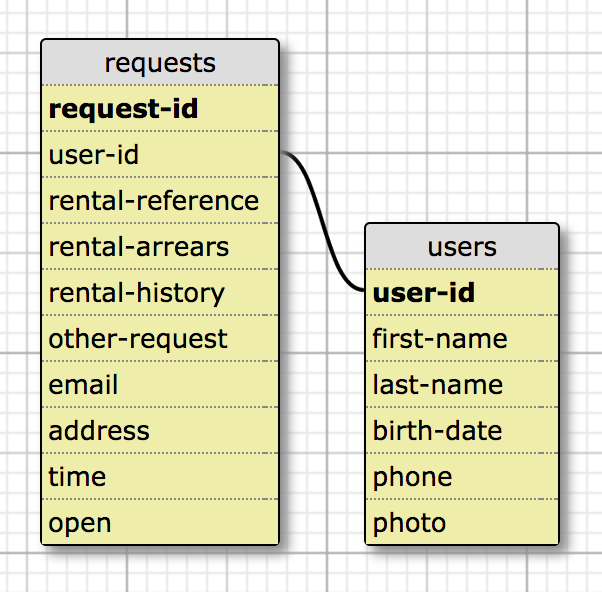
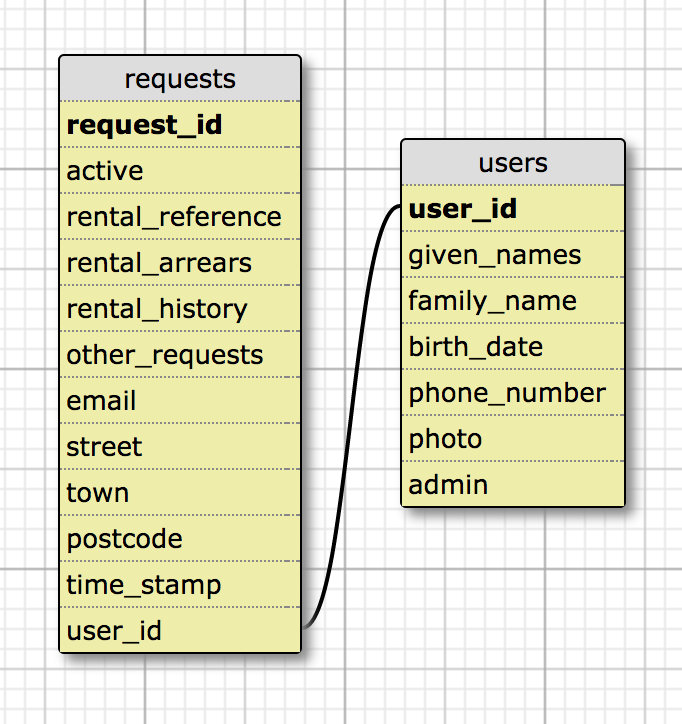
Add admin user stories, update database schema, minor edits

diff --git a/README.md b/README.md
@@ -1,36 +1,20 @@
 # Centrepoint Alumni help
 
-An app to allow former Centrepoint residents access their Centrepoint address history and information that they may require for their new tenancy agreements.
+An app to allow former Centrepoint residents request their Centrepoint housing information, and to allow administrators to view and manage requests.
 
-## Installation instructions
-
-- Clone this repo and `cd` into it
-- Install Postgres ([see here for instructions](https://github.com/dwyl/learn-postgresql))
-- Enter Postgres command line tool (`psql postgres` on Mac)
-- Create database by typing `CREATE DATABASE exresident_requests;`
-- Ask us for the database password
-- Add user 'centrepoint' and assign as the owner of the database:  
-  `CREATE USER centrepoint WITH SUPERUSER PASSWORD 'password-here';`  
-  `ALTER DATABASE exresident_requests OWNER TO centrepoint;`
-- Create a `config.env` file with the following two lines:  
-  `export DB_URL = postgres://centrepoint:password-here@localhost:5432/exresident_requests`
-  `export DB_MAX_CONNECTIONS = 2`   
-- Run `npm install` to install all dependencies
-- Run `npm run build` to build the database
-- Run `npm start` to start the server
-- Navigate to `http://localhost:9443/` in your browser
-
-#### In order to set up an HTTPS server
-- generate a key file for your certificate  ($ openssl genrsa -out key.pem 2048)
-- generate an intermediate file (csr)  ($ openssl req -new -key key.pem -out csr.pem)
-- generate a certificate file, using the key and csr ($ openssl x509 -req -days 9999 -in csr.pem -signkey key.pem -out cert.pem)
-- remove the intermediate csr file
-
-## User stories
+## User stories: ex-resident
 
 **As a** former resident of Centrepoint  
 **I would like** to access Centrepoint alumni network  
 **so that** I can request my former address with a verified ID    
+
+**As a** former resident of Centrepoint  
+**I would like** the app to look similar to The Point  
+**so that** I know that they are both part of the Centrepoint ex-resident network  
+
+**As a** former resident of Centrepoint  
+**I would like** the app to work on both mobile and desktop  
+**so that** access it regardless of whichever platform I have access to  
 
 **As a** former resident of Centrepoint  
 **I would like** to know what type of information I can request  
@@ -57,45 +41,72 @@ An app to allow former Centrepoint residents access their Centrepoint address hi
 **so that** receive the requested information quickly and reliably  
 
 **As a** former resident of Centrepoint  
+**I would like** the app to look simple, and the form data to be easy to input  
+**so that** be confident that I have put in all the data correctly
+
+**As a** former resident of Centrepoint  
 **I would like** to know long it would take for Centrepoint to contact me  
 **so that** I know when I will get my information (and that they will get in touch by phone if there are any questions)  
 
-## Project plan
+**As a** former resident of Centrepoint  
+**I would like** to stay logged in until I log out  
+**so that** I am authenticated with the app when (and only when) I'm using it
 
-### Wednesday
+## User stories: admin
 
-- Design app flow & storyboards
-- Decide on fonts & colours
-- Create README
-- Set up landing & confirmation pages
-- Set up basic back-end
-- Set up Yoti authentication
+**As a** Centrepoint admin  
+**I would like** to access the ex-resident app dashboard  
+**so that** I can view all requests for housing data from ex-residents
 
-### Thursday
+**As a** Centrepoint admin  
+**I would like** to log in to Yoti quickly and easily  
+**so that** I am authenticated with Centrepoint
 
-- Set up housing data page
-- Set up thank you page
-- Styling and animations
+**As a** Centrepoint admin  
+**I would like** to make sure that only administrators can view the dashboard  
+**so that** ex-residents data is not revealed to external visitors
 
-### Friday
+**As a** Centrepoint admin  
+**I would like** to see a list of all data requests from ex-residents  
+**so that** I know what requests have been made and need my attention
 
-- Set up back-end for remaining pages
-- Styling and animations
-- Prepare for demo & presentation
+**As a** Centrepoint admin  
+**I would like** to see which data requests from ex-residents are open and which closed  
+**so that** I know which requests to focus on
+
+**As a** Centrepoint admin  
+**I would like** to see when each of the requests was made  
+**so that** I know which requests to give priority to
+
+**As a** Centrepoint admin  
+**I would like** to be able to change a request status from open to closed once I have processed it  
+**so that** I know that it doesn't need my attention any more
+
+**As a** Centrepoint admin  
+**I would like** to be able to filter requests based on whether they are open or closed  
+**so that** I can see a list of all requests I am interested in more clearly
+
+**As a** Centrepoint admin  
+**I would like** to stay logged in until I log out  
+**so that** I am authenticated with the dashboard when (and only when) I'm using it
+
+**As a** Centrepoint admin  
+**I would like** to be able to add admin privileges to colleagues at Centrepoint  
+**so that** they can view and work on requests from the dashboard as well
+
+## Wireframes: ex-resident app
+
+<img src="./wireframes/wireframes-12.JPG" height="400"/>
+<img src="./wireframes/wireframes-34.JPG" height="400"/>
+
+## Wireframes: admin dashboard
+
+<img src="./wireframes/Dashboard.png" width="500"/>
+<img src="./wireframes/Dashboard-open-req.png" width="500"/>
 
 ## App flow
 
 <img src="./wireframes/app-flow.png" width="450"/>
-
-## Ex-resident app wireframes
-
-<img src="./wireframes/wireframes-12.JPG" width="400"/>
-<img src="./wireframes/wireframes-34.JPG" width="300"/>
-
-## Admin dashboard wireframes
-
-<img src="./wireframes/Dashboard.png" width="500"/>
-<img src="./wireframes/Dashboard-open-req.png" width="500"/>
 
 ## Database schema
 
@@ -120,11 +131,39 @@ Fonts and colours were taken to match those at https://centrepoint.org.uk
 
 ## Technical decisions
 
-### Platform
-- Mobile-first web app to ensure wide access
+### Platform: ex-resident app
+- Mobile-first web app
 - Should be able to work well on older smartphones with smaller screens
 
-### Tech stack - currently implemented
+### Platform: admin dashboard
+- Desktop web app
+- Office use friendly
+
+### Tech stack
 - Front-end: HTML, CSS, Materialize, JavaScript (jQuery)
-- Back-end: Node.js, Hapi.js
+- Back-end: Node.js, Hapi.js, Handlebars, Postgres
 - Authentication: Yoti
+
+## Installation instructions
+
+- Clone this repo and `cd` into it
+- Install Postgres ([see here for instructions](https://github.com/dwyl/learn-postgresql))
+- Enter Postgres command line tool (`psql postgres` on Mac)
+- Create database by typing `CREATE DATABASE exresident_requests;`
+- Ask us for the database password
+- Add user 'centrepoint' and assign as the owner of the database:  
+  `CREATE USER centrepoint WITH SUPERUSER PASSWORD 'password-here';`  
+  `ALTER DATABASE exresident_requests OWNER TO centrepoint;`
+- Create a `config.env` file with the following two lines:  
+  `export DB_URL = postgres://centrepoint:password-here@localhost:5432/exresident_requests`
+  `export DB_MAX_CONNECTIONS = 2`   
+- Run `npm install` to install all dependencies
+- Run `npm run build` to build the database
+- Run `npm start` to start the server
+- Navigate to `http://localhost:9443/` in your browser
+
+#### In order to set up an HTTPS server
+- generate a key file for your certificate  ($ openssl genrsa -out key.pem 2048)
+- generate an intermediate file (csr)  ($ openssl req -new -key key.pem -out csr.pem)
+- generate a certificate file, using the key and csr ($ openssl x509 -req -days 9999 -in csr.pem -signkey key.pem -out cert.pem)
+- remove the intermediate csr file
